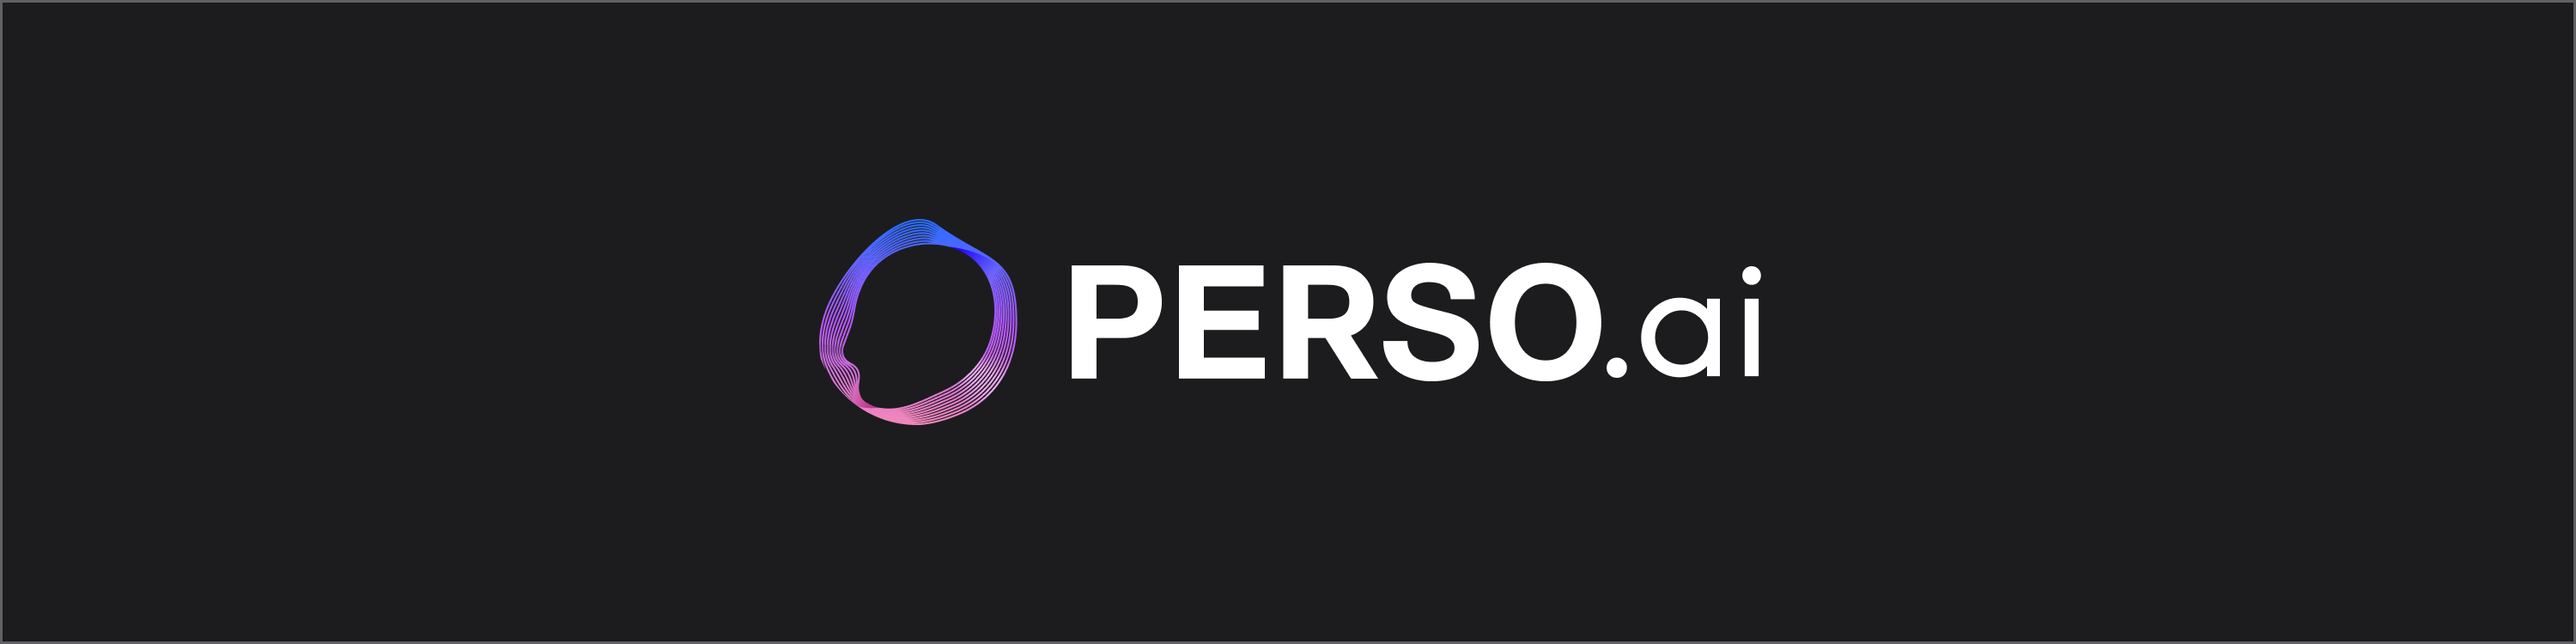
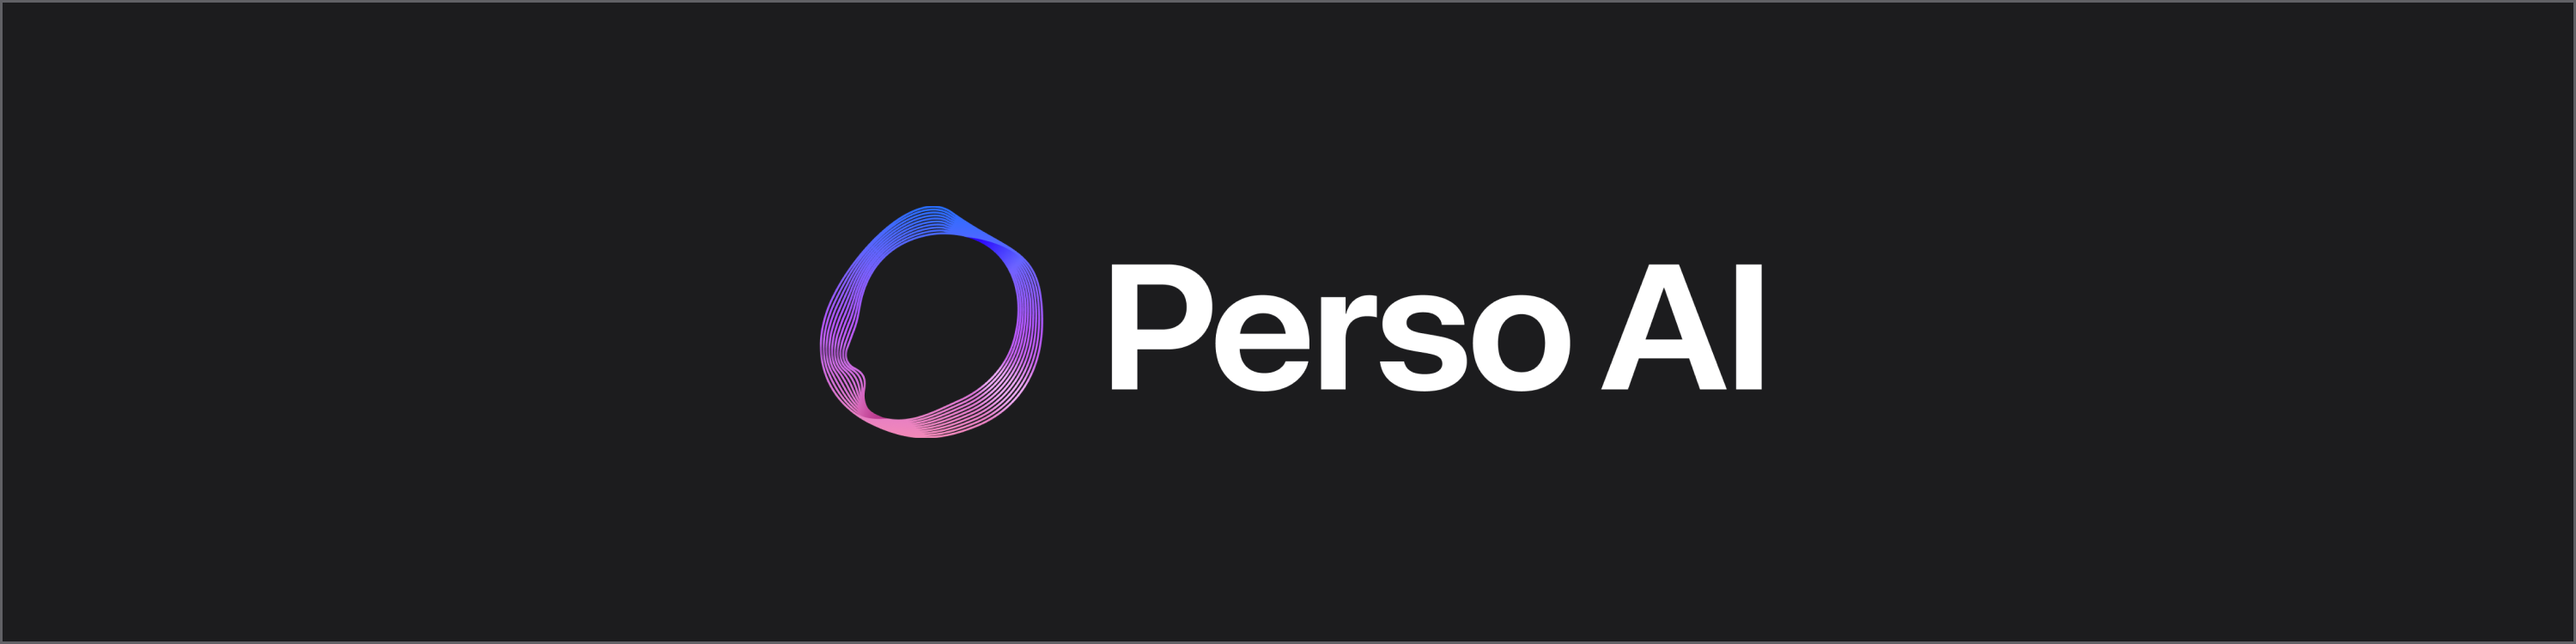
Rename branding to `Perso AI`

Changed region(s): [[0.31, 0.3067, 0.682, 0.6747]]

diff --git a/README.md b/README.md
@@ -1,12 +1,12 @@
 <picture>
   <source media="(prefers-color-scheme: dark)" srcset=".github/banner_dark.png" />
   <source media="(prefers-color-scheme: light)" srcset=".github/banner_light.png" />
-  <img style="width:100%;" alt="PERSO.ai Banner" src=".github/banner_light.png" />
+  <img style="width:100%;" alt="Perso AI Banner" src=".github/banner_light.png" />
 </picture>
 
 <div align="center">
 
-# [PERSO.ai](https://perso.ai/) LiveChat On-Device SDK for Swift
+# [Perso AI](https://perso.ai/) LiveChat On-Device SDK for Swift
 
 [![Swift](https://img.shields.io/badge/Swift-6.0+-orange?style=flat-square)](https://img.shields.io/badge/Swift-6.0+-Orange?style=flat-square)
 [![Platforms](https://img.shields.io/badge/Platforms-macOS-Green?style=flat-square)](https://img.shields.io/badge/Platforms-macOS-Green?style=flat-square)
@@ -16,14 +16,14 @@
 
 <br>
 
-The [PERSO.ai](https://perso.ai/) LiveChat SDK is the next-generation universal interface for conversational AI.
+The **Perso AI LiveChat SDK** is the next-generation universal interface for conversational AI.
 It supports real-time communication and personalized interactions with over 100 languages, featuring natural speech-to-text conversion and lifelike AI Human expressions.
 
 <br/>
 
 ## Prerequisites
 
-The PERSO.ai LiveChat SDK supports :
+The Perso AI LiveChat SDK supports :
 * macOS 15.0 or later
 * Xcode 16.0 or later
 * Swift 6.0 or later
@@ -33,7 +33,7 @@ The PERSO.ai LiveChat SDK supports :
 ## Installation
 ### Swift Package Manager
 
-To install the PERSO.ai LiveChat SDK, follow these steps:
+To install the Perso AI LiveChat SDK, follow these steps:
 
 1. Open your Xcode project.
 2. Navigate to `File` > `Add Package Dependencies...`.
@@ -79,7 +79,7 @@ PersoLiveChat.apiKey = "YOUR_API_KEY"
 ```
 
 > [!CAUTION]  
-> **The PERSO.ai LiveChat SDK for Swift is not recommended to embed an API Key directly in your app.**
+> **The Perso AI LiveChat SDK for Swift is not recommended to embed an API Key directly in your app.**
 > There's a high risk that malicious actors could discover and misuse your API Key.
 > We strongly recommend using a SessionID issued by your backend whenever possible, rather than exposing your API Key.
 
@@ -553,4 +553,4 @@ PersoLiveChat.computeUnits = .cpu
 <br/>
 
 ## License
-PERSO.ai LiveChat SDK for Swift is commercial software. [Contact our sales team](https://perso.ai/contact).
+Perso AI LiveChat SDK for Swift is commercial software. [Contact our sales team](https://perso.ai/contact).
